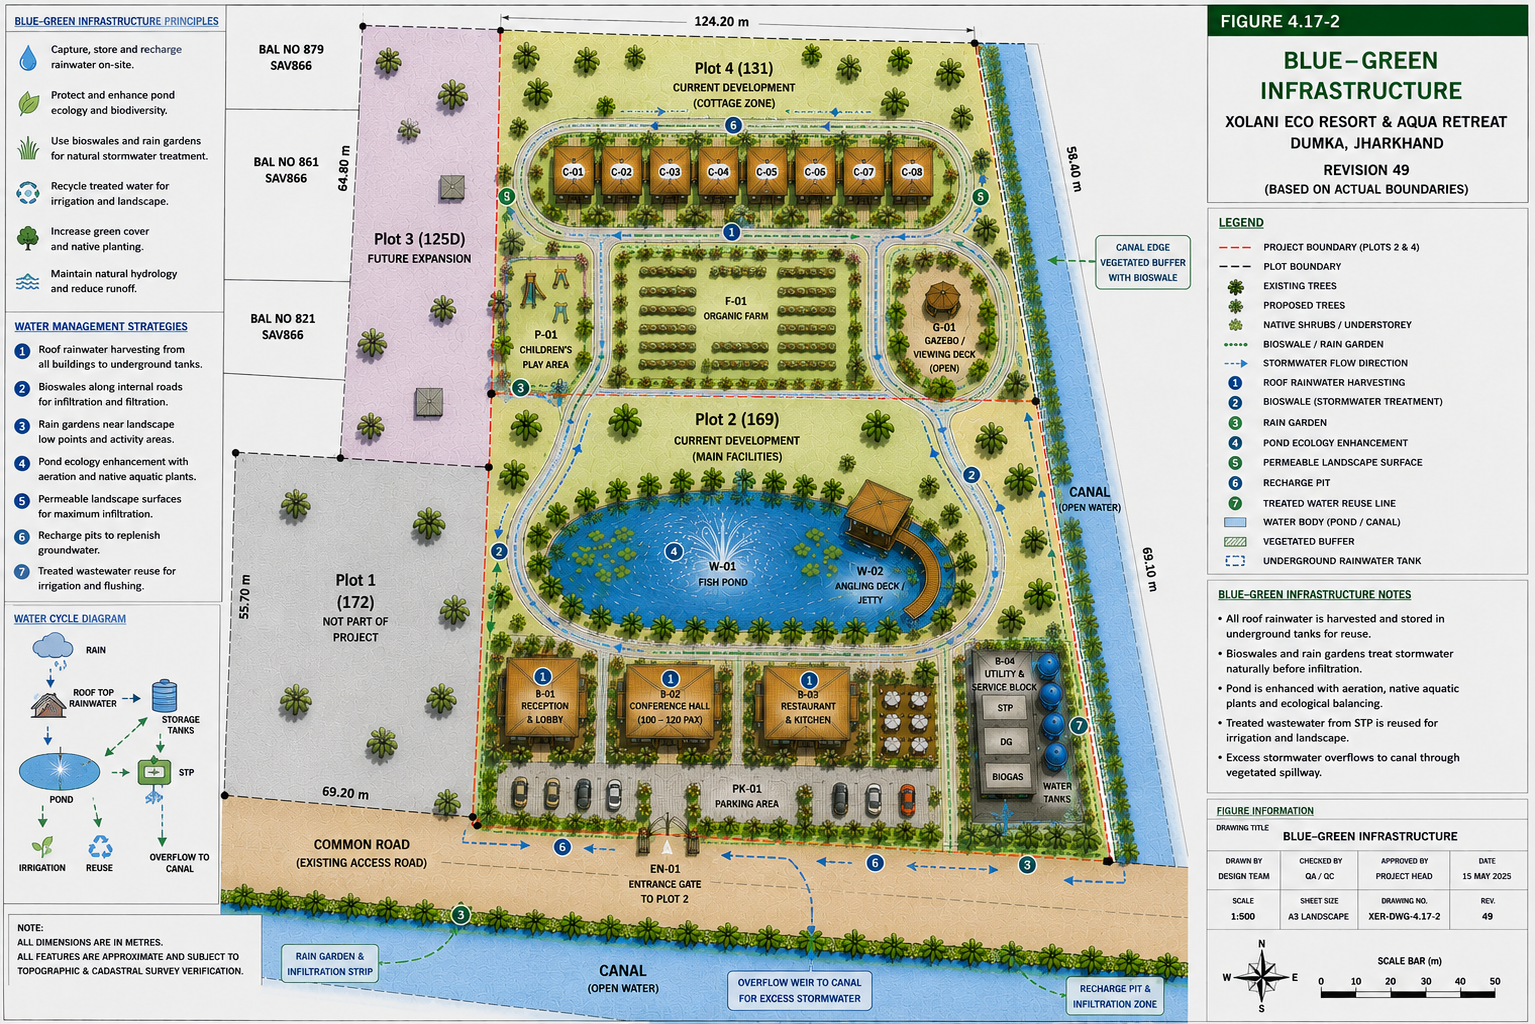
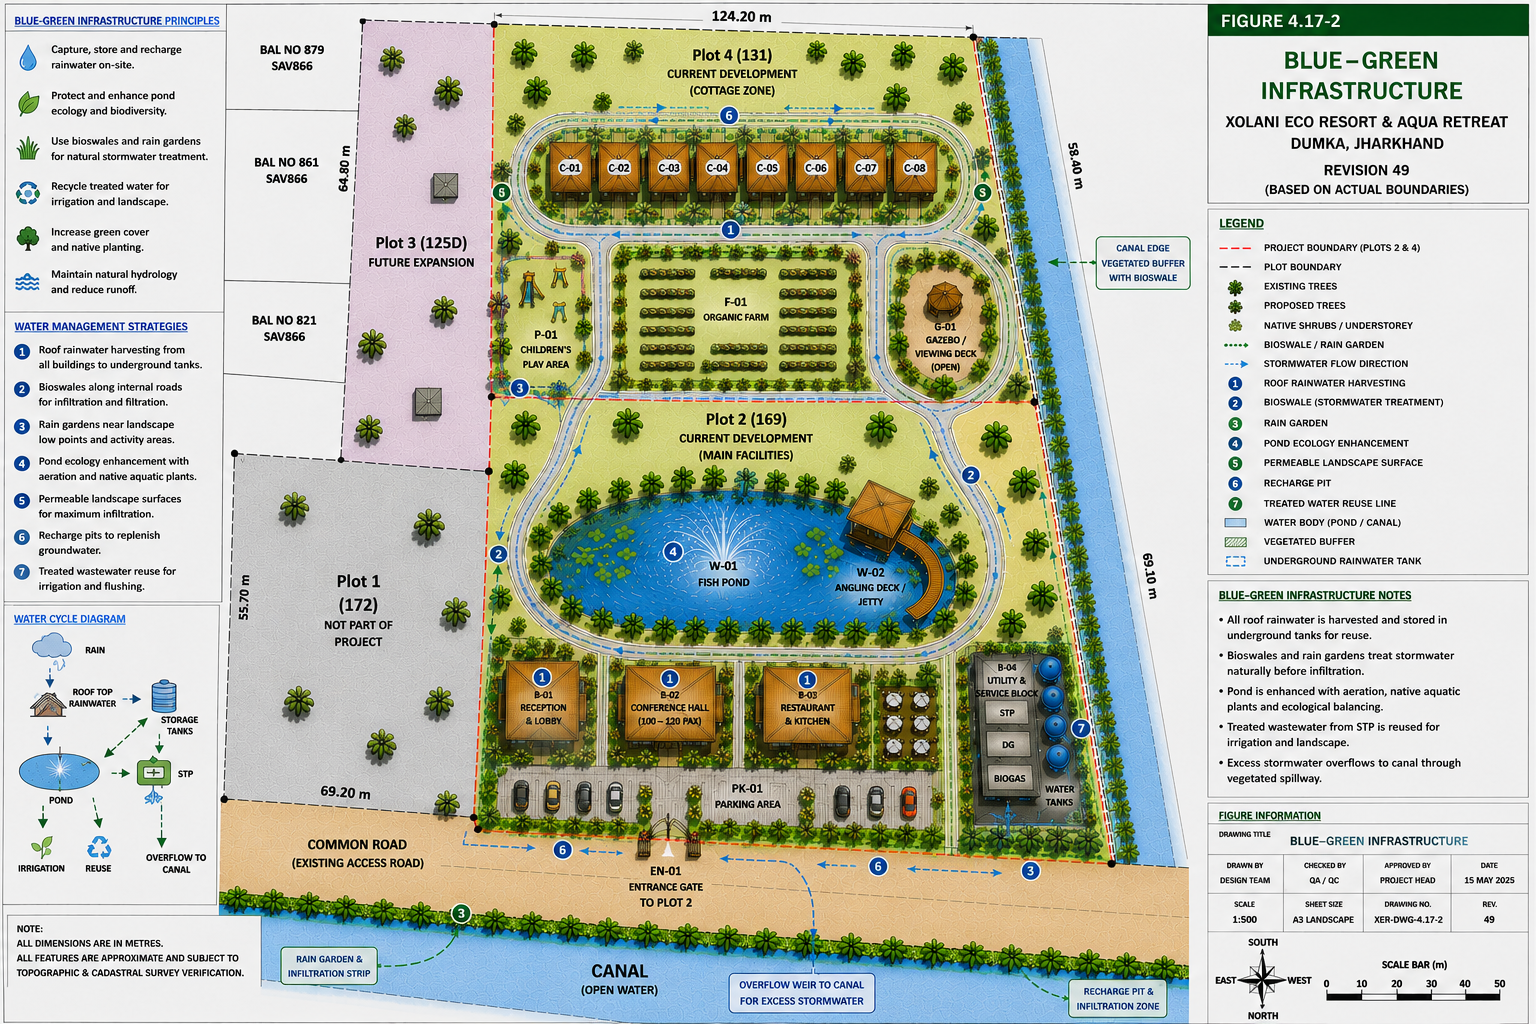
Approve AST-000023 Blue-Green Infrastructure and DAR-023

diff --git a/engineering/DAR/DAR-023/DAR-023_Drawing_Analysis_Report.md b/engineering/DAR/DAR-023/DAR-023_Drawing_Analysis_Report.md
@@ -1,0 +1,48 @@
+# DAR-023 - Drawing Analysis Report
+
+## Controlled Asset
+
+- Asset ID: AST-000023
+- Original Filename: ChatGPT Image Jul 17, 2026, 07_41_29 PM.png
+- Repository Path: drawings/Current/ChatGPT Image Jul 17, 2026, 07_41_29 PM.png
+- DAR Reference: DAR-023
+
+## Drawing Identity
+
+- Figure: Figure 4.17-2
+- Title: BLUE-GREEN INFRASTRUCTURE
+- Drawing Number: XER-DWG-4.17-2
+- Revision: 49
+- Date: 15 MAY 2025
+- Sheet: A3 Landscape
+- Scale: 1:500
+
+## Comparison Baseline
+
+AST-000018 through AST-000022 were used as approved
+project-orientation comparison baselines.
+
+The substantive Blue-Green Infrastructure analysis, water management
+strategies, water cycle diagram, site layout, boundaries, labels,
+colors, annotations, dimensions, title block, revision, scale and site
+content were retained.
+
+## Approved Correction
+
+The compass was corrected only.
+
+The approved project orientation is:
+
+- North - down
+- South - up
+- East - left
+- West - right
+
+No other drawing content was intentionally changed.
+
+## Approved Status
+
+APPROVED
+
+AST-000023 is controlled as the Blue-Green Infrastructure drawing,
+Figure 4.17-2.
